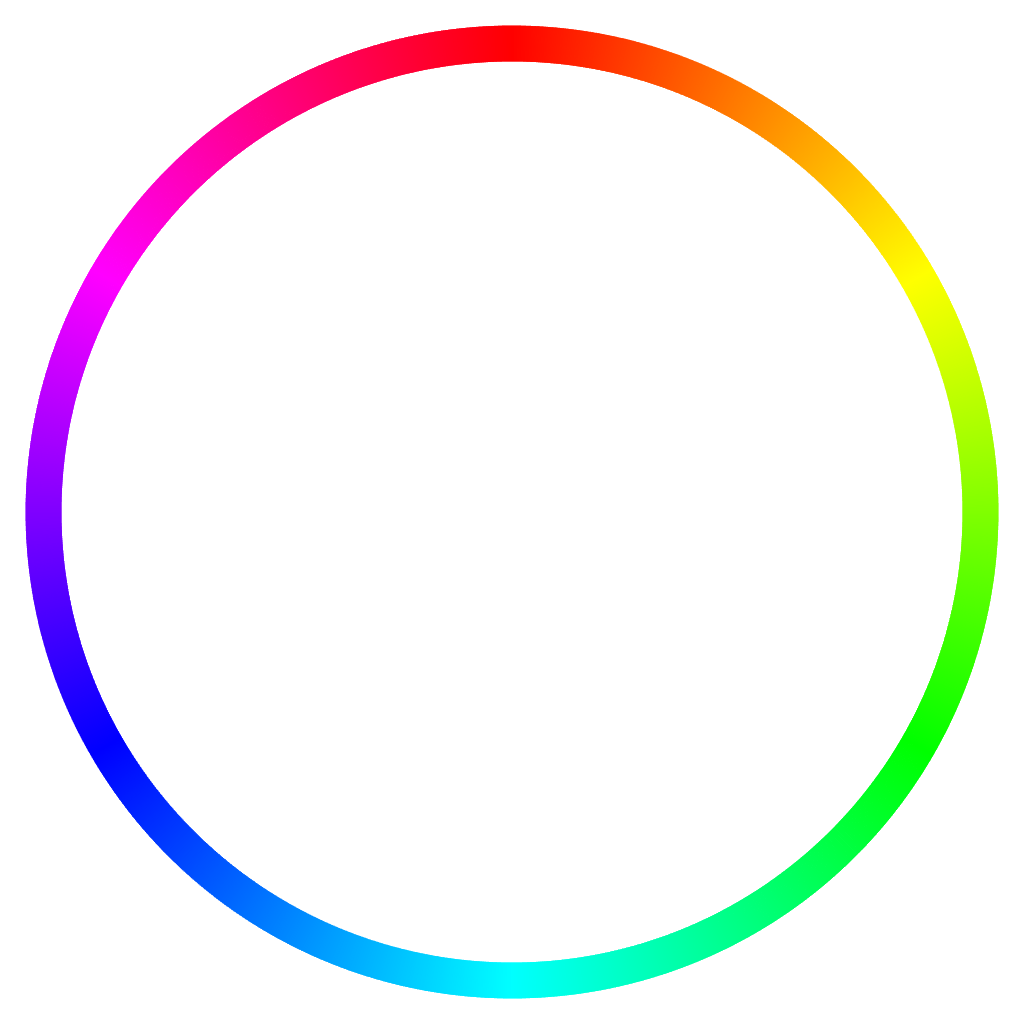
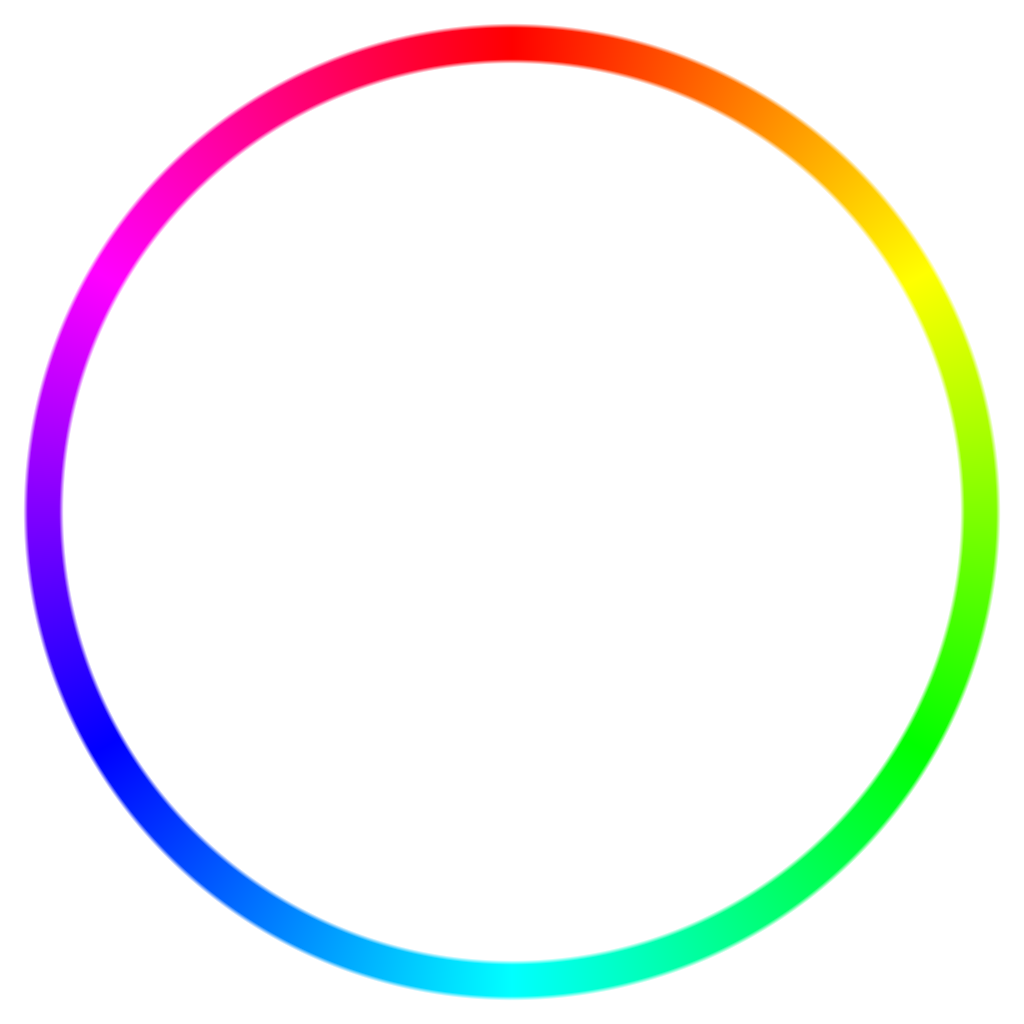
调色盘+键位: 修取色卡顿/震动/锯齿/松手延迟 + AHK 涂抹与禁 Ctrl 拖
取色卡顿（第一次 Alt 后）:
- breakMenu 改为「手势全程」触发（从第 1 次 Alt 起，只要 Alt 按着且无左键/PS 前台）。
  原来只在三击 armed 后才注入 → 等待第 2/3 次 Alt 的整段，Windows Alt 菜单模式节流面板 → 第一次取色卡。
- 手势期间每帧采样（getLatest 已是 lock+copy，便宜），让 breakMenu 即时生效。

色环点 RGB +/- 「震动」:
- styles.css: .app overflow-y:auto → scroll，永久预留滚动条槽 → 内容宽恒定。
- computeGeom/几何轮询改用 documentElement.clientWidth（视口宽，不随滚动条变）。
  根因：滚动条临界出现/消失 → .wheel-section 变宽窄 → 居中的 #wheel 横向位移 + 重算尺寸。

色环锯齿:
- 重新生成 hue-ring.png：抗锯齿软边（~5px 渐变）+ 边缘 RGB 填环色（防缩放暗边）。
- 同步 probe/GenRing.cs（1024px / aa=4.5 / 色匹配边缘）。

松开 Alt 仍取色零点几秒:
- pickActive 直接查 alt（原靠 armed，而 armed 有 10 帧≈160ms 释放去抖）→ 松手当帧即停。

AHK:
- C 键工具注释「模糊」→「涂抹」（用作默认模糊笔刷）；README 同步。
- 新增「禁止 Ctrl+左键拖动」防误触移动/复制（只吞拖动，保留 Ctrl+单击）。

diff --git a/uxp-hybrid/plugin/main.js b/uxp-hybrid/plugin/main.js
@@ -81,8 +81,9 @@ const FR = { rOuter: 0.475, rInner: 0.44, sqSize: 0.62 };
 const G = { S: 220, cx: 110, cy: 110, rOuter: 104, rInner: 97, rMid: 100, sqSize: 120, sqLeft: 50, sqTop: 50 };
 
 function computeGeom() {
-  // 用父容器宽 × 0.92 算整数边长，并固定 #wheel 为整数尺寸（消除亚像素导致的 1px 抖动）
-  const pw = (picker.parentElement || picker).getBoundingClientRect().width;
+  // 用「面板视口宽」(documentElement.clientWidth) × 0.92 算整数边长，固定 #wheel 为整数尺寸。
+  // 关键：视口宽不随 .app 滚动条出现/消失而变 → 色环尺寸恒定，点 +/- 等不改变面板宽的操作不会重算 → 不震动。
+  const pw = document.documentElement.clientWidth || (picker.parentElement || picker).getBoundingClientRect().width;
   let S = Math.round(pw * 0.92);
   if (!S || S < 80) S = 220;
   picker.style.width = S + "px";
@@ -399,14 +400,24 @@ function sampleLoop() {
     else if (++altFalse >= 10) { armed = false; lastAltDownFrame = -999; }
     prevAlt = alt;
 
-    // 取色态：已三击激活(armed) + 按住 Alt + PS 在最前(#1) + 没点左键 + 没按 Ctrl/Shift/Tab(#3) + 没按 Esc。
-    // 关键：不含 moved —— 鼠标暂停≠结束取色（Alt 还按着就还是取色态），
-    // 否则走走停停时 picking 反复复位、每次复位狂调全量 render（实测 38/s）→ 卡。
-    const pickActive = armed && psActive && !down && !ctrl && !shift && !tab && !esc && !drag;
+    // —— 打破 Alt 菜单模式：手势全程（第 1 次 Alt 起）只要 Alt 按着、没点左键、PS 在前台，就每帧注入无害键 ——
+    // 关键修复：以前只在 armed(三击完成)后才注入 → 等待第 2/3 次 Alt 的整段，每次松 Alt 都激活 Windows 菜单模式、
+    //   节流面板 → 第一次取色卡；armed 后才流畅。现在从第一次 Alt 起就注入，菜单模式不再激活 → 等待期不再卡。
+    // !down：避让 Alt+左键（PS 原生吸管），防注入键干扰其拖拽（鼠标点击本身也会取消菜单模式，无需注入）。
+    if (alt && !down && psActive && sampler.breakMenu && (armed || picking || tapCount > 0 || pendingRead)) {
+      try { sampler.breakMenu(); } catch (e) {}
+    }
+
+    // 取色态：已三击激活(armed) + 当前确实按住 Alt + PS 最前(#1) + 没点左键 + 没按 Ctrl/Shift/Tab(#3) + 没按 Esc。
+    // 关键修复：直接查 alt —— 松开 Alt 当帧 pickActive 即 false → 立刻停止取色。
+    //   （以前不查 alt、靠 armed 当代理，而 armed 有 10 帧≈160ms 释放去抖 → 松手后还取色零点几秒。）
+    //   抖动安全：GetAsyncKeyState 偶发抖一帧 alt=false 不会误结束，picking 由下方 pickFalse>=12 去抖兜底。
+    // 不含 moved —— 鼠标暂停≠结束取色（Alt 还按着就还是取色态），否则走走停停反复复位狂调 render → 卡。
+    const pickActive = armed && alt && psActive && !down && !ctrl && !shift && !tab && !esc && !drag;
 
     if (pickActive) {               // 取色态：三击 Alt 激活后，按住第三下划过画布（不点左键）
       picking = true; pickFalse = 0;
-      try { if (sampler.breakMenu) sampler.breakMenu(); } catch (e) {}   // 每帧注入无害键，打破 Alt 菜单激活（防 menu mode 卡顿）；用 if 守卫，旧 addon 无此函数时不报错
+      // breakMenu 已由上方「手势全程」统一注入（armed 时也覆盖），此处不再重复调用。
       if (valid && moved && (r !== state.r || g !== state.g || b !== state.b)) {   // 仅「像素有效 + 鼠标在动 + 颜色变」才更新（越界帧保持上次色，不闪白）
         state.r = r; state.g = g; state.b = b; syncHsvFromRgb();
         if (frame - lastRenderFrame >= 4) {        // 节流 paint：取色看色分布 ~15fps 足够，降 paint 量防 UXP 渲染层积压卡顿
@@ -441,7 +452,7 @@ function rafLoop() {
   frame++;
   // 面板尺寸变化 → 重算色环几何（UXP 可能不发 resize 事件，这里轮询兜底）
   if (frame % 10 === 0) {
-    const pw = (picker.parentElement || picker).getBoundingClientRect().width;
+    const pw = document.documentElement.clientWidth || (picker.parentElement || picker).getBoundingClientRect().width;
     const w = Math.round(pw * 0.92);
     // 防抖：宽度需「连续两次轮询一致」才重算/缩放。挡掉点击 +/- 触发 render 后立即量宽读到的
     // UXP 重排中途过渡值、以及滚动条临界翻转造成的瞬时宽——这些只持续一两帧、两次不一致 → 不触发 → 不闪。
@@ -452,10 +463,10 @@ function rafLoop() {
     }
     _lastGeomW = w;
   }
-  // 取色态(armed/picking)每帧读屏；空闲时每 4 帧读一次（只为检测 Alt 连击，降低常驻同步读屏的全局卡顿）
-  // 注：pendingRead 故意不进此门控——否则单击 Alt 按住期间会每帧 getLatest()→GetPixel（正是要避免的卡），
-  //     且会让去抖(c)早于窗口过期(b)清状态。读前景色靠 (b) 在窗口过期后于每4帧采样里触发，延迟≤~50ms 无感。
-  if (sampler) { if (armed || picking || (frame % 4 === 0)) sampleLoop(); }
+  // 手势全程(tapCount>0 / pendingRead / armed / picking)每帧跑采样；纯空闲每 4 帧。
+  // getLatest 现在只 lock+copy(读屏在后台线程)，每帧跑也很便宜——这是关键：从第一次 Alt 起每帧跑，
+  // 才能让上面「手势全程 breakMenu」即时注入、打破等待第2/3次 Alt 期间的菜单模式节流。
+  if (sampler) { if (armed || picking || tapCount > 0 || pendingRead || (frame % 4 === 0)) sampleLoop(); }
   else pollForeground();       // 无 addon：退回镜像前景色
 }
 

diff --git a/uxp-hybrid/plugin/styles.css b/uxp-hybrid/plugin/styles.css
@@ -40,7 +40,9 @@ html, body {
   width: 100%;
   height: 100%;
   min-width: 210px;
-  overflow-y: auto;
+  /* scroll(非 auto)：永久预留滚动条槽 → 内容宽恒定，不随内容高度临界翻转。
+     否则点 +/- 时滚动条瞬时出现/消失 → .wheel-section 变宽窄 → 居中的 #wheel 横向位移+缩放（震动）。 */
+  overflow-y: scroll;
   overflow-x: hidden;
 }
 

diff --git a/uxp-hybrid/probe/GenRing.cs b/uxp-hybrid/probe/GenRing.cs
@@ -20,9 +20,10 @@ class GenRing {
     static double Clamp01(double v) { return v < 0 ? 0 : (v > 1 ? 1 : v); }
 
     static void Main() {
-        int S = 2048;
-        double c = S / 2.0, Ro = S * 0.475, Ri = S * 0.44;   // 环带：外径0.475 内径0.44
-        double aa = 2.5;                                      // 边缘抗锯齿过渡宽度（像素，越大越柔）
+        int S = 1024;                                         // 1024 足够（显示 220~550px，降采样平滑）
+        double c = S / 2.0, Ro = S * 0.475, Ri = S * 0.44;   // 环带：外径0.475 内径0.44（与面板游标几何一致）
+        double aa = 4.5;                                      // 边缘抗锯齿过渡宽（px@1024≈1px@显示）；够宽以抗 bilinear 降采样欠采样
+        double margin = aa + 2;
         var bmp = new Bitmap(S, S, PixelFormat.Format32bppArgb);
         var data = bmp.LockBits(new Rectangle(0, 0, S, S), ImageLockMode.WriteOnly, PixelFormat.Format32bppArgb);
         int stride = data.Stride;
@@ -30,15 +31,17 @@ class GenRing {
         for (int y = 0; y < S; y++) {
             for (int x = 0; x < S; x++) {
                 double dx = x + 0.5 - c, dy = y + 0.5 - c, d = Math.Sqrt(dx * dx + dy * dy);
-                double aOut = Clamp01((Ro - d) / aa + 0.5);
-                double aIn = Clamp01((d - Ri) / aa + 0.5);
-                double cover = aOut * aIn;
                 int idx = y * stride + x * 4;
-                if (cover > 0.003) {
+                // 关键：在「环带 ± margin」范围内都写环色（即便 alpha≈0），让透明边缘像素 RGB=环色，
+                // 缩放时 bilinear 不会把黑底(0,0,0)混进来 → 无暗边；范围外才是纯透明黑。
+                if (d >= Ri - margin && d <= Ro + margin) {
+                    double aOut = Clamp01((Ro - d) / aa + 0.5);
+                    double aIn = Clamp01((d - Ri) / aa + 0.5);
+                    double cover = aOut * aIn;
                     double ang = Math.Atan2(dy, dx) * 180 / Math.PI;
                     double hue = (ang + 90 + 360) % 360;
                     int R, G, B; Hsv(hue, out R, out G, out B);
-                    byte a = (byte)Math.Round(cover * 255);
+                    byte a = (byte)Math.Round(Clamp01(cover) * 255);
                     buf[idx + 0] = (byte)B; buf[idx + 1] = (byte)G; buf[idx + 2] = (byte)R; buf[idx + 3] = a;
                 } else {
                     buf[idx + 0] = 0; buf[idx + 1] = 0; buf[idx + 2] = 0; buf[idx + 3] = 0;

diff --git a/ahk/README.md b/ahk/README.md
@@ -11,11 +11,11 @@
 2. 双击 `ps-paint-keys.ahk` 运行。屏幕右下角出现托盘提示「PS 键位已加载」即成功。
 3. （可选，开机自启）按 `Win+R` 输入 `shell:startup` 回车，把 `ps-paint-keys.ahk` 的快捷方式拖进去。
 
-### 第 2 步：在 PS 给「模糊工具」配快捷键 K
-模糊工具是 PS 唯一没有默认快捷键的工具，脚本的 `C` 键转发的是 `K`，所以要先在 PS 里给模糊工具配上 K：
+### 第 2 步：在 PS 给「涂抹工具」配快捷键 K
+涂抹/模糊/锐化这组工具默认都没有快捷键，脚本的 `C` 键转发的是 `K`，所以要先在 PS 里给**涂抹工具**配上 K（我们用涂抹作为默认的模糊笔刷）：
 1. PS 菜单 **编辑 → 键盘快捷键**（快捷键：`Ctrl+Alt+Shift+K`）。
 2. 顶部「**快捷键用于**」下拉选 **工具 (Tools)**。
-3. 在列表里滚动找到 **模糊工具 / Blur Tool**（在 减淡/加深 一组附近）。
+3. 在列表里滚动找到 **涂抹工具 / Smudge Tool**（在 模糊/锐化 一组里）。
 4. 点它右侧空白框，按一下 **K** 键。
 5. 右上角点 ✓（接受）→ 再点确定保存。
 
@@ -47,12 +47,13 @@
 | `A` | 旋转视图工具 | R（切过去后鼠标拖着转，转完按 Q 回画笔） |
 | `V` | 魔棒 | W |
 | `Z` | 直线 / 形状工具 | U |
-| `C` | 模糊工具 | K（需第 2 步配置） |
+| `C` | 涂抹工具（默认模糊笔刷） | K（需第 2 步配置） |
 | `W` | 放大 | Ctrl + |
 | `S` | 缩小 | Ctrl − |
 | `T` | 水平翻转视图 | F2（需第 3 步配置） |
 | `Ctrl+F` | 前景色填充选区 | Alt+Delete（无选区则填整层） |
 | `Ctrl+Alt+左键拖` | 改笔刷大小 | 横向拖=大小、纵向拖=硬度/透明度（转 PS 原生 Alt+右键拖） |
+| `Ctrl+左键拖` | **已禁用**（防误触移动/复制） | 拖动被吞掉、内容不动；移动改用 `Ctrl+T`。`Ctrl+左键单击`照常保留 |
 | `F1` | **暂停 / 恢复脚本** | 见下方注意事项 |
 
 ---
@@ -61,6 +62,7 @@
 
 - **打字前先按 F1 暂停**：`Q E R A V Z C W S T` 是裸字母键，脚本启用时这些字母会被改成工具/缩放。用**文字工具**打字、或在任何输入框输入含这些字母的内容前，先按 `F1` 暂停；打完再按 `F1` 恢复。
 - **Ctrl 组合键不受影响**：`Ctrl+S`（保存）、`Ctrl+A`（全选）等照常工作，脚本只拦截裸字母键。
+- **Ctrl+左键「拖」已禁用**：PS 默认 Ctrl+拖会移动/复制内容，画画时极易误触；脚本只吞「拖动」，`Ctrl+左键单击`（如点图层缩览图载入选区）仍正常。要移动内容请用 `Ctrl+T` 自由变换。
 - **改笔刷要在画笔/橡皮等工具下用**：移动工具下 `Ctrl+Alt+拖` 是 PS 的复制图层，脚本不在那场景接管。
 - **配置丢失**：第 2 步建议在快捷键对话框存成一套新的快捷键组；动作（第 3 步）会随 PS 保存。
 